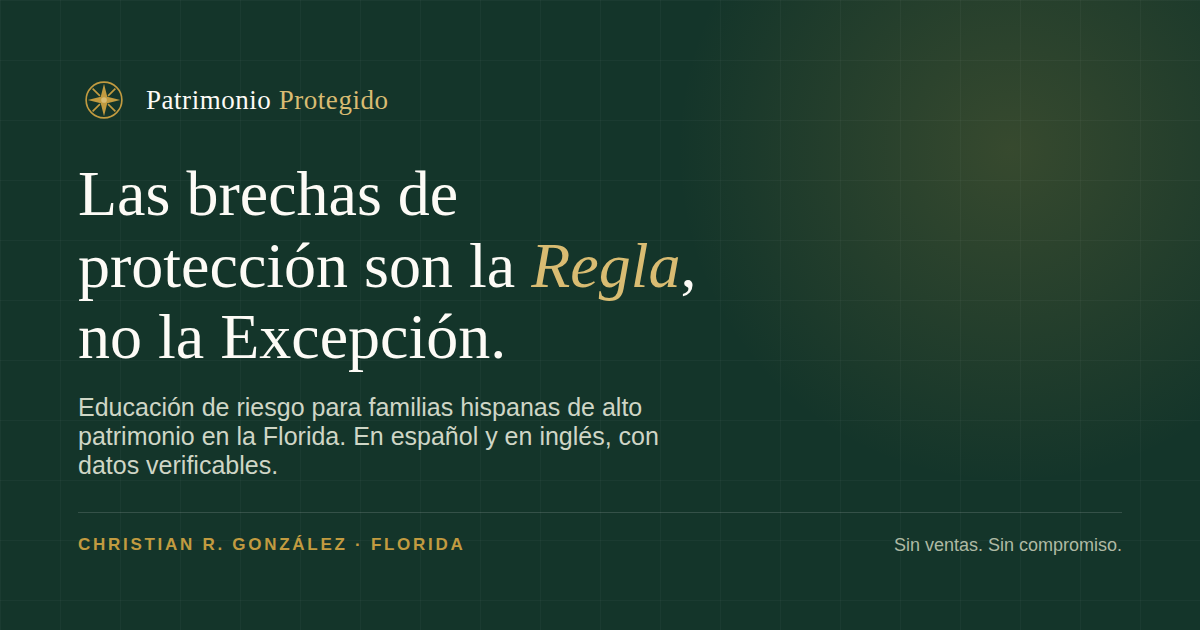
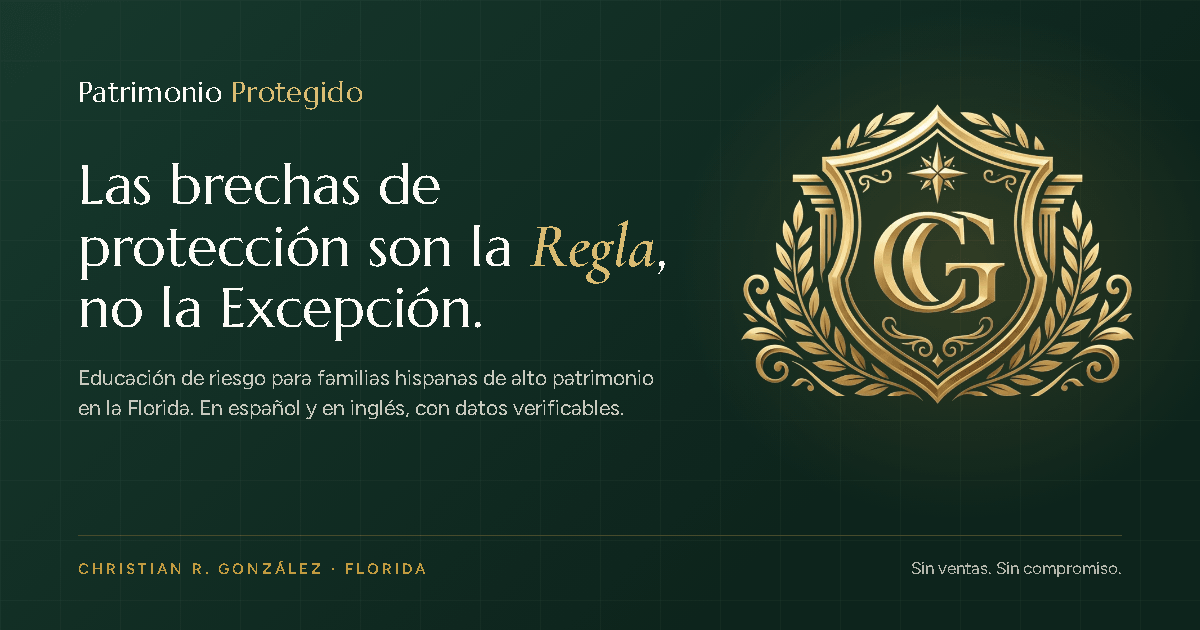
Share cards with the CG crest; put og:image in the static HTML
Link-preview bots do not run JavaScript, so the share image was never
seen. Every content page now carries og:image/twitter:image directly:
og.png for Spanish pages, og-en.png for English pages (existing copy only).

diff --git a/en.html b/en.html
@@ -32,6 +32,12 @@ j=d.createElement(s),dl=l!='dataLayer'?'&l='+l:'';j.async=true;j.src=
 <meta name="robots" content="index,follow,max-image-preview:large">
 <meta name="theme-color" content="#14352A">
 <meta property="og:site_name" content="Patrimonio Protegido">
+<meta property="og:url" content="https://www.protectedlegacyfl.com/en/">
+<meta property="og:image" content="https://www.protectedlegacyfl.com/og-en.png">
+<meta property="og:image:width" content="1200">
+<meta property="og:image:height" content="630">
+<meta property="og:image:alt" content="Patrimonio Protegido · Christian R. González">
+<meta name="twitter:image" content="https://www.protectedlegacyfl.com/og-en.png">
 <meta name="twitter:card" content="summary_large_image">
 
 <!-- ============================================================
@@ -55,9 +61,6 @@ window.PP = {
   function meta(attr,key,val){var m=document.createElement('meta');m.setAttribute(attr,key);m.content=val;h.appendChild(m);}
   if(u){
     var pg=document.documentElement.lang==='en'?'/en/':'/';
-    meta('property','og:url',u+pg);
-    meta('property','og:image',u+'/og.png');
-    meta('name','twitter:image',u+'/og.png');
     var ld=document.createElement('script');ld.type='application/ld+json';
     ld.textContent=JSON.stringify({"@context":"https://schema.org","@type":"WebSite","name":"Patrimonio Protegido","url":u+"/","inLanguage":["es","en"],"publisher":{"@type":"Organization","name":"Patrimonio Protegido","url":u+"/","logo":u+"/img/cg-logo-512.png"},"author":{"@type":"Person","name":"Christian R. González","telephone":"+1-786-671-2171","sameAs":["https://www.linkedin.com/in/christiangonzalez22/"],"address":{"@type":"PostalAddress","addressRegion":"FL","addressCountry":"US"}},"description":"Educación de riesgo, en español e inglés, para familias hispanas de alto patrimonio en la Florida."});
     h.appendChild(ld);

diff --git a/index.html b/index.html
@@ -28,6 +28,12 @@ j=d.createElement(s),dl=l!='dataLayer'?'&l='+l:'';j.async=true;j.src=
 <meta name="robots" content="index,follow,max-image-preview:large">
 <meta name="theme-color" content="#14352A">
 <meta property="og:site_name" content="Patrimonio Protegido">
+<meta property="og:url" content="https://www.protectedlegacyfl.com/">
+<meta property="og:image" content="https://www.protectedlegacyfl.com/og.png">
+<meta property="og:image:width" content="1200">
+<meta property="og:image:height" content="630">
+<meta property="og:image:alt" content="Patrimonio Protegido · Christian R. González">
+<meta name="twitter:image" content="https://www.protectedlegacyfl.com/og.png">
 <meta name="twitter:card" content="summary_large_image">
 
 <!-- ============================================================
@@ -51,9 +57,6 @@ window.PP = {
   function meta(attr,key,val){var m=document.createElement('meta');m.setAttribute(attr,key);m.content=val;h.appendChild(m);}
   if(u){
     var pg=document.documentElement.lang==='en'?'/en/':'/';
-    meta('property','og:url',u+pg);
-    meta('property','og:image',u+'/og.png');
-    meta('name','twitter:image',u+'/og.png');
     var ld=document.createElement('script');ld.type='application/ld+json';
     ld.textContent=JSON.stringify({"@context":"https://schema.org","@type":"WebSite","name":"Patrimonio Protegido","url":u+"/","inLanguage":["es","en"],"publisher":{"@type":"Organization","name":"Patrimonio Protegido","url":u+"/","logo":u+"/img/cg-logo-512.png"},"author":{"@type":"Person","name":"Christian R. González","telephone":"+1-786-671-2171","sameAs":["https://www.linkedin.com/in/christiangonzalez22/"],"address":{"@type":"PostalAddress","addressRegion":"FL","addressCountry":"US"}},"description":"Educación de riesgo, en español e inglés, para familias hispanas de alto patrimonio en la Florida."});
     h.appendChild(ld);

diff --git a/en-guides-household-staff-legacy.html b/en-guides-household-staff-legacy.html
@@ -28,6 +28,12 @@ j=d.createElement(s),dl=l!='dataLayer'?'&l='+l:'';j.async=true;j.src=
 <meta property="og:description" content="Household employee insurance in Florida: employer duties, workers comp for a nanny, employment claims, staff driving family cars and estate planning basics.">
 <meta property="og:url" content="https://www.protectedlegacyfl.com/en/guides/household-staff-legacy/">
 <meta property="og:locale" content="en_US">
+<meta property="og:image" content="https://www.protectedlegacyfl.com/og-en.png">
+<meta property="og:image:width" content="1200">
+<meta property="og:image:height" content="630">
+<meta property="og:image:alt" content="Patrimonio Protegido · Christian R. González">
+<meta name="twitter:card" content="summary_large_image">
+<meta name="twitter:image" content="https://www.protectedlegacyfl.com/og-en.png">
 <link rel="icon" type="image/png" sizes="32x32" href="/img/favicon-32.png">
 <link rel="icon" type="image/png" sizes="192x192" href="/img/favicon-192.png">
 <link rel="apple-touch-icon" href="/img/apple-touch-icon.png">

diff --git a/en-guides-umbrella-liability.html b/en-guides-umbrella-liability.html
@@ -28,6 +28,12 @@ j=d.createElement(s),dl=l!='dataLayer'?'&l='+l:'';j.async=true;j.src=
 <meta property="og:description" content="How umbrella insurance works in Florida: underlying limits, exclusions, defense costs, UM coverage, digital risks and board service for high-net-worth families.">
 <meta property="og:url" content="https://www.protectedlegacyfl.com/en/guides/umbrella-liability/">
 <meta property="og:locale" content="en_US">
+<meta property="og:image" content="https://www.protectedlegacyfl.com/og-en.png">
+<meta property="og:image:width" content="1200">
+<meta property="og:image:height" content="630">
+<meta property="og:image:alt" content="Patrimonio Protegido · Christian R. González">
+<meta name="twitter:card" content="summary_large_image">
+<meta name="twitter:image" content="https://www.protectedlegacyfl.com/og-en.png">
 <link rel="icon" type="image/png" sizes="32x32" href="/img/favicon-32.png">
 <link rel="icon" type="image/png" sizes="192x192" href="/img/favicon-192.png">
 <link rel="apple-touch-icon" href="/img/apple-touch-icon.png">

diff --git a/en-guides-collections-art-jewelry.html b/en-guides-collections-art-jewelry.html
@@ -28,6 +28,12 @@ j=d.createElement(s),dl=l!='dataLayer'?'&l='+l:'';j.async=true;j.src=
 <meta property="og:description" content="Jewelry insurance and art collection insurance in Florida: homeowners special limits, scheduled vs blanket coverage, agreed value, appraisals and transit.">
 <meta property="og:url" content="https://www.protectedlegacyfl.com/en/guides/collections-art-jewelry/">
 <meta property="og:locale" content="en_US">
+<meta property="og:image" content="https://www.protectedlegacyfl.com/og-en.png">
+<meta property="og:image:width" content="1200">
+<meta property="og:image:height" content="630">
+<meta property="og:image:alt" content="Patrimonio Protegido · Christian R. González">
+<meta name="twitter:card" content="summary_large_image">
+<meta name="twitter:image" content="https://www.protectedlegacyfl.com/og-en.png">
 <link rel="icon" type="image/png" sizes="32x32" href="/img/favicon-32.png">
 <link rel="icon" type="image/png" sizes="192x192" href="/img/favicon-192.png">
 <link rel="apple-touch-icon" href="/img/apple-touch-icon.png">

diff --git a/guias-personal-del-hogar-legado.html b/guias-personal-del-hogar-legado.html
@@ -28,6 +28,12 @@ j=d.createElement(s),dl=l!='dataLayer'?'&l='+l:'';j.async=true;j.src=
 <meta property="og:description" content="Empleada doméstica, niñera o chofer en Florida: obligaciones del empleador, compensación laboral, reclamos laborales y planificación patrimonial y seguros.">
 <meta property="og:url" content="https://www.protectedlegacyfl.com/guias/personal-del-hogar-legado/">
 <meta property="og:locale" content="es_US">
+<meta property="og:image" content="https://www.protectedlegacyfl.com/og.png">
+<meta property="og:image:width" content="1200">
+<meta property="og:image:height" content="630">
+<meta property="og:image:alt" content="Patrimonio Protegido · Christian R. González">
+<meta name="twitter:card" content="summary_large_image">
+<meta name="twitter:image" content="https://www.protectedlegacyfl.com/og.png">
 <link rel="icon" type="image/png" sizes="32x32" href="/img/favicon-32.png">
 <link rel="icon" type="image/png" sizes="192x192" href="/img/favicon-192.png">
 <link rel="apple-touch-icon" href="/img/apple-touch-icon.png">

diff --git a/en-guides-homes-hurricanes.html b/en-guides-homes-hurricanes.html
@@ -28,6 +28,12 @@ j=d.createElement(s),dl=l!='dataLayer'?'&l='+l:'';j.async=true;j.src=
 <meta property="og:description" content="How high value home insurance in Florida handles hurricanes: replacement cost, the hurricane deductible math, ordinance or law, roof age and claim deadlines.">
 <meta property="og:url" content="https://www.protectedlegacyfl.com/en/guides/homes-hurricanes/">
 <meta property="og:locale" content="en_US">
+<meta property="og:image" content="https://www.protectedlegacyfl.com/og-en.png">
+<meta property="og:image:width" content="1200">
+<meta property="og:image:height" content="630">
+<meta property="og:image:alt" content="Patrimonio Protegido · Christian R. González">
+<meta name="twitter:card" content="summary_large_image">
+<meta name="twitter:image" content="https://www.protectedlegacyfl.com/og-en.png">
 <link rel="icon" type="image/png" sizes="32x32" href="/img/favicon-32.png">
 <link rel="icon" type="image/png" sizes="192x192" href="/img/favicon-192.png">
 <link rel="apple-touch-icon" href="/img/apple-touch-icon.png">

diff --git a/preguntas-frecuentes.html b/preguntas-frecuentes.html
@@ -28,6 +28,12 @@ j=d.createElement(s),dl=l!='dataLayer'?'&l='+l:'';j.async=true;j.src=
 <meta property="og:description" content="¿La póliza de hogar cubre inundación? ¿Cuándo empieza el seguro de inundación? ¿Necesito compensación laboral para la niñera? Respuestas claras en español.">
 <meta property="og:url" content="https://www.protectedlegacyfl.com/preguntas-frecuentes/">
 <meta property="og:locale" content="es_US">
+<meta property="og:image" content="https://www.protectedlegacyfl.com/og.png">
+<meta property="og:image:width" content="1200">
+<meta property="og:image:height" content="630">
+<meta property="og:image:alt" content="Patrimonio Protegido · Christian R. González">
+<meta name="twitter:card" content="summary_large_image">
+<meta name="twitter:image" content="https://www.protectedlegacyfl.com/og.png">
 <link rel="icon" type="image/png" sizes="32x32" href="/img/favicon-32.png">
 <link rel="icon" type="image/png" sizes="192x192" href="/img/favicon-192.png">
 <link rel="apple-touch-icon" href="/img/apple-touch-icon.png">

diff --git a/guias-aviacion-privada.html b/guias-aviacion-privada.html
@@ -28,6 +28,12 @@ j=d.createElement(s),dl=l!='dataLayer'?'&l='+l:'';j.async=true;j.src=
 <meta property="og:description" content="Seguro de avión privado: casco, responsabilidad por pasajero, garantías de piloto, propiedad fraccionada, jet cards, chárter y drones con las reglas de la FAA.">
 <meta property="og:url" content="https://www.protectedlegacyfl.com/guias/aviacion-privada/">
 <meta property="og:locale" content="es_US">
+<meta property="og:image" content="https://www.protectedlegacyfl.com/og.png">
+<meta property="og:image:width" content="1200">
+<meta property="og:image:height" content="630">
+<meta property="og:image:alt" content="Patrimonio Protegido · Christian R. González">
+<meta name="twitter:card" content="summary_large_image">
+<meta name="twitter:image" content="https://www.protectedlegacyfl.com/og.png">
 <link rel="icon" type="image/png" sizes="32x32" href="/img/favicon-32.png">
 <link rel="icon" type="image/png" sizes="192x192" href="/img/favicon-192.png">
 <link rel="apple-touch-icon" href="/img/apple-touch-icon.png">

diff --git a/guias-colecciones-arte-joyas.html b/guias-colecciones-arte-joyas.html
@@ -28,6 +28,12 @@ j=d.createElement(s),dl=l!='dataLayer'?'&l='+l:'';j.async=true;j.src=
 <meta property="og:description" content="Seguro de joyas, relojes, arte y vino en Florida: límites especiales de la póliza de hogar, cobertura programada, valor convenido, tasaciones y traslados.">
 <meta property="og:url" content="https://www.protectedlegacyfl.com/guias/colecciones-arte-joyas/">
 <meta property="og:locale" content="es_US">
+<meta property="og:image" content="https://www.protectedlegacyfl.com/og.png">
+<meta property="og:image:width" content="1200">
+<meta property="og:image:height" content="630">
+<meta property="og:image:alt" content="Patrimonio Protegido · Christian R. González">
+<meta name="twitter:card" content="summary_large_image">
+<meta name="twitter:image" content="https://www.protectedlegacyfl.com/og.png">
 <link rel="icon" type="image/png" sizes="32x32" href="/img/favicon-32.png">
 <link rel="icon" type="image/png" sizes="192x192" href="/img/favicon-192.png">
 <link rel="apple-touch-icon" href="/img/apple-touch-icon.png">

diff --git a/guias-residencias-huracanes.html b/guias-residencias-huracanes.html
@@ -28,6 +28,12 @@ j=d.createElement(s),dl=l!='dataLayer'?'&l='+l:'';j.async=true;j.src=
 <meta property="og:description" content="Seguro de casa en Florida de alto valor: costo de reemplazo, cómo se calcula el deducible de huracán, ley u ordenanza, edad del techo y plazos de reclamo.">
 <meta property="og:url" content="https://www.protectedlegacyfl.com/guias/residencias-huracanes/">
 <meta property="og:locale" content="es_US">
+<meta property="og:image" content="https://www.protectedlegacyfl.com/og.png">
+<meta property="og:image:width" content="1200">
+<meta property="og:image:height" content="630">
+<meta property="og:image:alt" content="Patrimonio Protegido · Christian R. González">
+<meta name="twitter:card" content="summary_large_image">
+<meta name="twitter:image" content="https://www.protectedlegacyfl.com/og.png">
 <link rel="icon" type="image/png" sizes="32x32" href="/img/favicon-32.png">
 <link rel="icon" type="image/png" sizes="192x192" href="/img/favicon-192.png">
 <link rel="apple-touch-icon" href="/img/apple-touch-icon.png">

diff --git a/guias-embarcaciones.html b/guias-embarcaciones.html
@@ -28,6 +28,12 @@ j=d.createElement(s),dl=l!='dataLayer'?'&l='+l:'';j.async=true;j.src=
 <meta property="og:description" content="Seguro de embarcación en Florida: valor acordado, responsabilidad civil, motos de agua, tripulación, huracanes y límites de navegación, explicados con calma.">
 <meta property="og:url" content="https://www.protectedlegacyfl.com/guias/embarcaciones/">
 <meta property="og:locale" content="es_US">
+<meta property="og:image" content="https://www.protectedlegacyfl.com/og.png">
+<meta property="og:image:width" content="1200">
+<meta property="og:image:height" content="630">
+<meta property="og:image:alt" content="Patrimonio Protegido · Christian R. González">
+<meta name="twitter:card" content="summary_large_image">
+<meta name="twitter:image" content="https://www.protectedlegacyfl.com/og.png">
 <link rel="icon" type="image/png" sizes="32x32" href="/img/favicon-32.png">
 <link rel="icon" type="image/png" sizes="192x192" href="/img/favicon-192.png">
 <link rel="apple-touch-icon" href="/img/apple-touch-icon.png">
